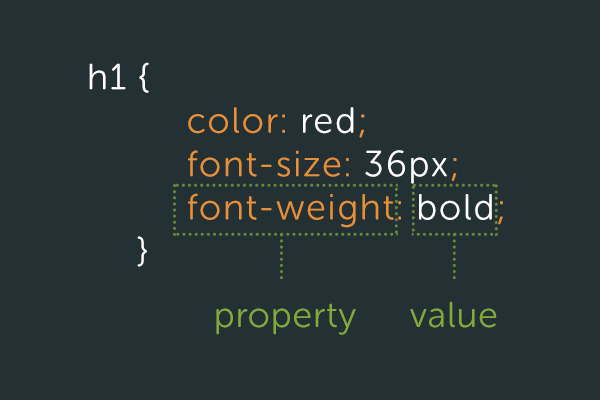
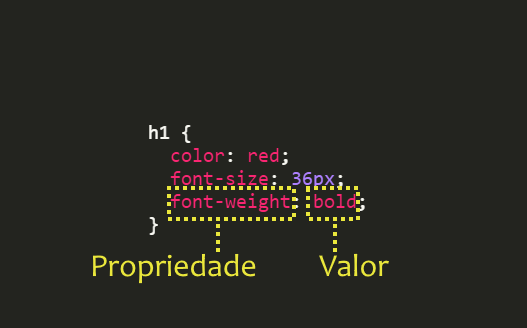
Improves class css1

diff --git a/classes/css1/README.md b/classes/css1/README.md
@@ -41,7 +41,7 @@
 ---
 ## Sintaxe: **regra**
 
-![Regra CSS](../../images/css-rule.png)
+![Uma regra CSS mostrando](../../images/css-rule.png)
 
 ---
 ## Sintaxe: **seletor** e **declaração**
@@ -54,8 +54,18 @@
 ![Regra CSS](../../images/css-property-value.png)
 
 ---
-# Classes e IDs
+## Problema: **selecionando** elementos
 
+- Como fazemos para selecionar (_e.g._):
+  1. apenas **alguns parágrafos** em vez de todos?
+  1. apenas o **primeiro título h2** da página?
+  1. apenas **uma imagem em especial**?
+- Uma solução possível é usar os atributos universais¹ HTML chamados
+  **`class`** e **`id`** para identificar os elementos e estilizá-los
+  - ¹: atributos que qualquer elemento pode ter
+
+---
+# Classes e IDs
 ---
 ## Classe
 
@@ -73,7 +83,7 @@
 ---
 ## Classe (cont.)
 
-- Dada a seguinte estrutura de um `&lt;body&gt;`:
+- Dada a seguinte estrutura de um &lt;body&gt;&lt;/body&gt;:
   ```html
   <p>Primeiro</p>
   <p>Segundo</p>
@@ -107,7 +117,7 @@
   ```
 
 ---
-## ID
+## Atributo Universal **ID**
 
 - Caso soubermos que um elemento deve aparecer apenas uma vez no arquivo `html`
   (por exemplo, o menu principal, o logotipo etc.), podemos usar **um
@@ -129,38 +139,50 @@
 ---
 ## Cascata
 
-- `CSS` é a sigla para _**Cascading** Style Sheets_
+- CSS é a sigla para _**Cascading** Style Sheets_
 - Algumas propriedades são herdadas dos elementos ascendentes
   - ```css
     body {
       color: red;
     }
     ```
+    - Todo o texto que estiver dentro de &lt;body&gt;, mesmo que dentro de
+      parágrafos ou outros elementos, ficarão vermelhos
+
+---
+## Exemplo da Cascata
+
+<iframe width="100%" height="300" src="//jsfiddle.net/fegemo/gqgacz36/embedded/html,css,result/" allowfullscreen="allowfullscreen" frameborder="0"></iframe>
+
+- Nota: clique nas abas "HTML", "CSS" e "Result". Para editar o código, clique
+  em "Edit in JSFiddle"
 
 ---
 ## Cascata (cont.)
 
-- As propriedades que não são herdadas, podemos forçá-las para que sejam
-  - ```css
-    p {
-      border: 1px solid red;
-    }
-    em {
-      border: inherit;
-    }
-    ```
+- Para as propriedades que não são herdadas por padrão (_e.g._, `border`),
+  podemos forçar que sejam herdadas usando o valor `inherit`:
+  ```css
+  p {
+    border: 1px solid red;
+  }
+  em {
+    border: inherit;
+  }
+  ```
+
 ---
 ## Cascata (cont.)
 
-- Também podemos sobrepor a herança de uma propriedade
-  - ```css
-    body {
-      font-weight: bold;
-    }
-    em {
-      font-weight: normal;
-    }
-    ```
+- Também podemos sobrescrever a herança de uma propriedade:
+  ```css
+  body {
+    font-weight: bold;
+  }
+  em {
+    font-weight: normal;
+  }
+  ```
 
 ---
 ## Atividade
@@ -199,10 +221,13 @@
 ## Seletores
 
 - Até agora, já sabemos selecionar elementos:
-  1. Pelo nome de sua _tag_
-  1. Por (uma de) suas classes
-  1. Por seu id
+  1. Pelo **nome de sua _tag_**: `p { color: white; }`
+  1. Por (uma de) suas **classes**: `.spam { color: red; }`
+  1. Por seu **id**: `#topo-da-pagina { color: green; }`
 - Contudo, a vida não para por aí...
+  - Há 20+ tipos de seletores (dos quais já vimos 3)
+  - Não é necessário decorar todos, apenas saber que existem para poder
+    consultá-los (Google) depois ;)
 
 ---
 ## Seletor: **Descendente**
@@ -383,19 +408,17 @@
 ---
 ## Outros seletores
 
-- `X:nth-child(n)`
-- `X:nth-last-child(n)`
-- `X:nth-of-type(n)`
-- `X:nth-last-of-type(n)`
-
----
-## Outros seletores (cont.)
-- `X:first-child`
-- `X:last-child`
-- `X:only-child`
-- `X:only-of-type`
-- `X:first-of-type`
-
+<ul class="multi-column-list-2">
+  <li>`X:first-child`</li>
+  <li>`X:last-child`</li>
+  <li>`X:nth-child(n)`</li>
+  <li>`X:nth-last-child(n)`</li>
+  <li>`X:nth-of-type(n)`</li>
+  <li>`X:nth-last-of-type(n)`</li>
+  <li>`X:only-child`</li>
+  <li>`X:only-of-type`</li>
+  <li>`X:first-of-type`</li>
+</ul>
 
 ---
 ## Exercício 1
@@ -460,7 +483,7 @@ trabalhar apenas com código `css`.
 1. Você deve entregar todos os seus arquivos via Moodle
    - **Compacte** os 8 arquivos num formatos .zip, .7z, .rar, .tar.gz
    - Entregue via atividade no Moodle até o final da aula
- 
+
 ---
 # Referências
 
